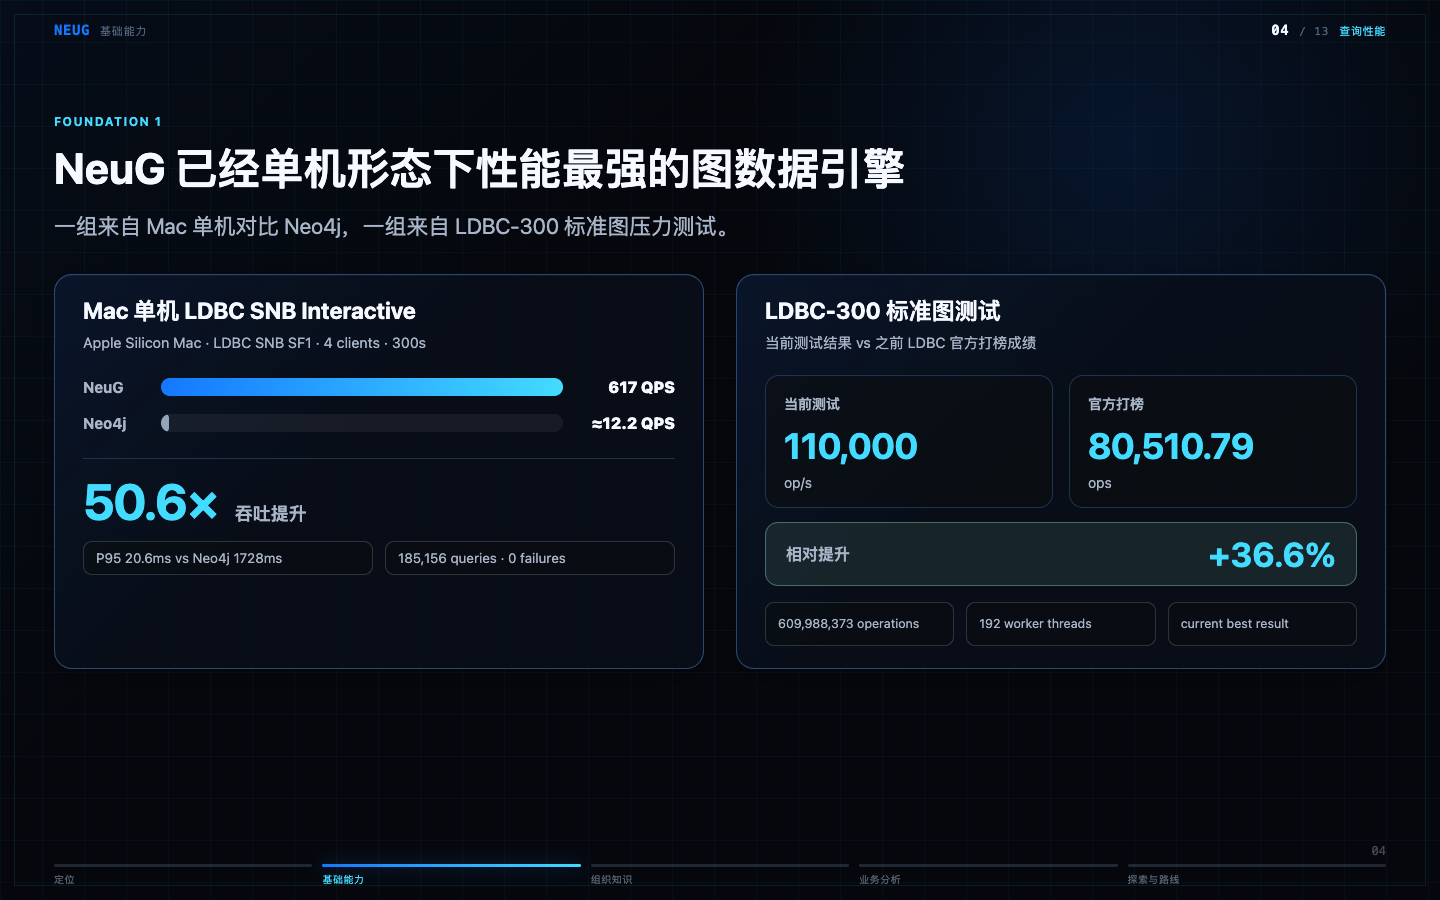
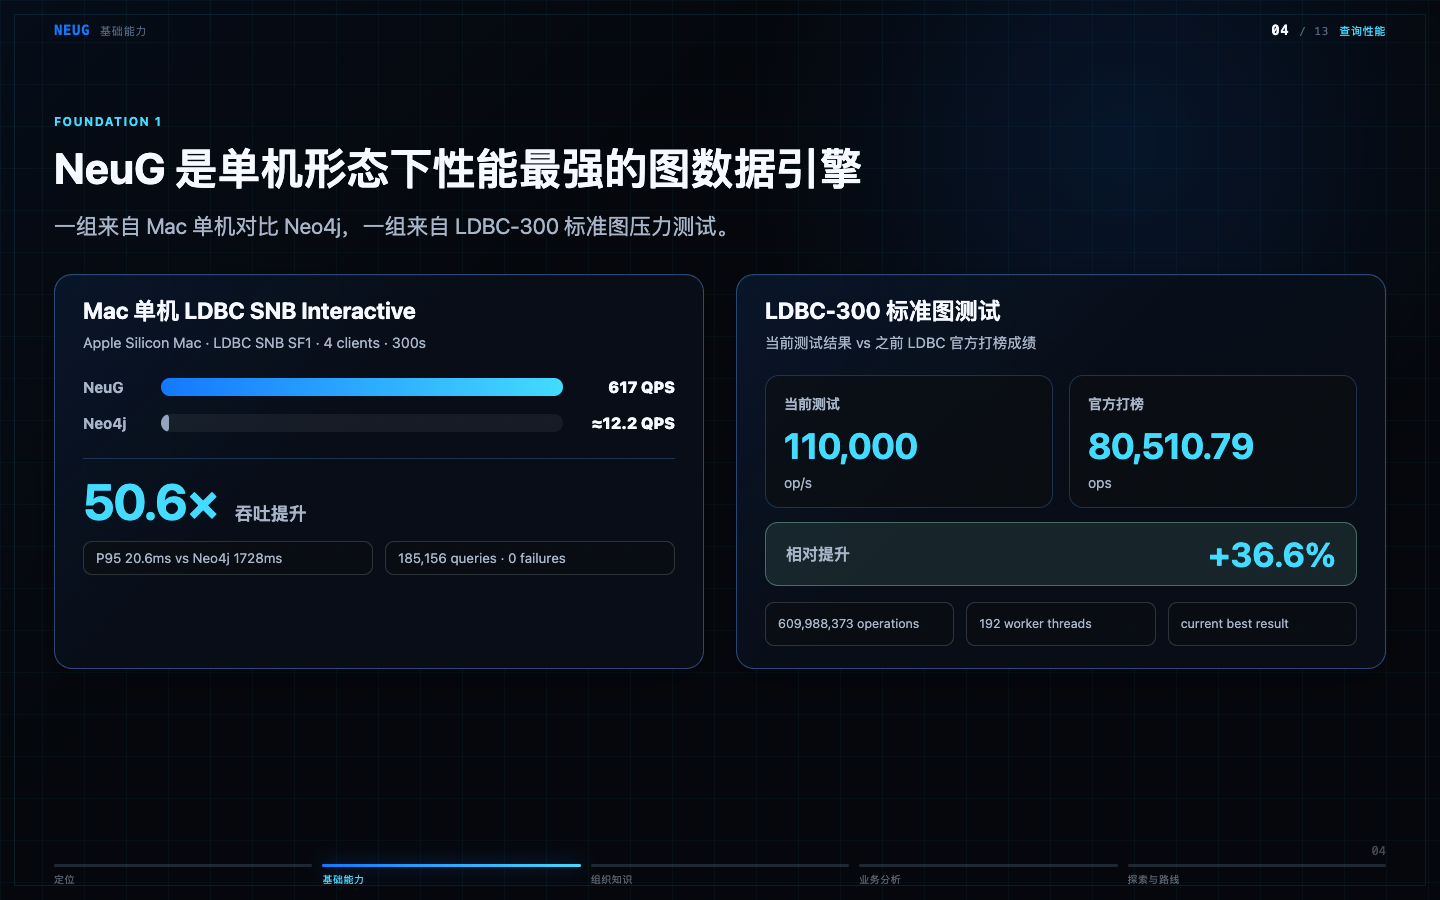
Update NeuG performance slide title

Changed region(s): [[0.125, 0.1556, 0.625, 0.2178]]

diff --git a/slides/outputs/neug-llm-agent-graph-engine-slides.html b/slides/outputs/neug-llm-agent-graph-engine-slides.html
@@ -2743,7 +2743,7 @@
 
       <section class="slide benchmark-slide" data-page="04">
         <div class="kicker">FOUNDATION 1</div>
-        <h2>NeuG 已经单机形态下性能最强的图数据引擎</h2>
+        <h2>NeuG 是单机形态下性能最强的图数据引擎</h2>
         <p class="benchmark-lead">一组来自 Mac 单机对比 Neo4j，一组来自 LDBC-300 标准图压力测试。</p>
         <div class="benchmark-layout">
           <article class="benchmark-panel mac-panel">

diff --git a/slides/variants/neug-blueprint/outputs/neug-blueprint-slides.html b/slides/variants/neug-blueprint/outputs/neug-blueprint-slides.html
@@ -3240,7 +3240,7 @@
 
       <section class="slide benchmark-slide" data-page="04">
         <div class="kicker">FOUNDATION 1</div>
-        <h2>NeuG 已经单机形态下性能最强的图数据引擎</h2>
+        <h2>NeuG 是单机形态下性能最强的图数据引擎</h2>
         <p class="benchmark-lead">一组来自 Mac 单机对比 Neo4j，一组来自 LDBC-300 标准图压力测试。</p>
         <div class="benchmark-layout">
           <article class="benchmark-panel mac-panel">

diff --git a/slides/variants/neug-blueprint/neug-blueprint-speaker-notes.md b/slides/variants/neug-blueprint/neug-blueprint-speaker-notes.md
@@ -12,7 +12,7 @@
 
 这里可以先简略说一下图模型。图模型把对象表示成节点，把对象之间的关系表示成边，所以它天然适合表达“谁连接了谁、路径怎么走、上下文怎么扩展”。图数据库就是围绕这种模型做存储和查询的系统，它不只是查一条记录，而是很擅长沿关系连续探索。
 
-所以对 LLM 和 Agent 来说，图数据库的价值在于：它可以把临时 prompt 里的上下文，变成可更新、可追溯、可分析的关系层。我们在第 6 页会把这些需求收敛成三个场景：组织知识、业务分析、个人与设备记忆。
+所以对 LLM 和 Agent 来说，图数据库的价值在于：它可以把临时 prompt 里的上下文，变成可更新、可追溯、可分析的关系层。我们在第 6 页会主要介绍和公司业务密切相关的三个场景：组织知识、业务分析、个人与设备记忆。
 
 ## 第 3 页：复杂上下文需要具备混合检索能力的图引擎
 
@@ -20,7 +20,7 @@
 
 NeuG 在这里的定位，是把 Graph Core、Vector、Full-text、GDS 和 CLI 统一成一个可被 Agent 调用的图引擎。也就是说，关系负责扩展上下文，向量负责语义召回，全文负责精确定位，图分析负责进一步判断重要性、路径和结构。
 
-## 第 4 页：NeuG 已经单机形态下性能最强的图数据引擎
+## 第 4 页：NeuG 是单机形态下性能最强的图数据引擎
 
 这一页回答一个基础问题：如果 NeuG 要进入 Agent runtime，性能能不能站得住。左边是 Mac 单机上的 LDBC SNB Interactive 对比，NeuG 在这个测试里相比 Neo4j 有明显优势；右边是 LDBC-300 标准图测试，当前结果也超过官方参考成绩。
 
